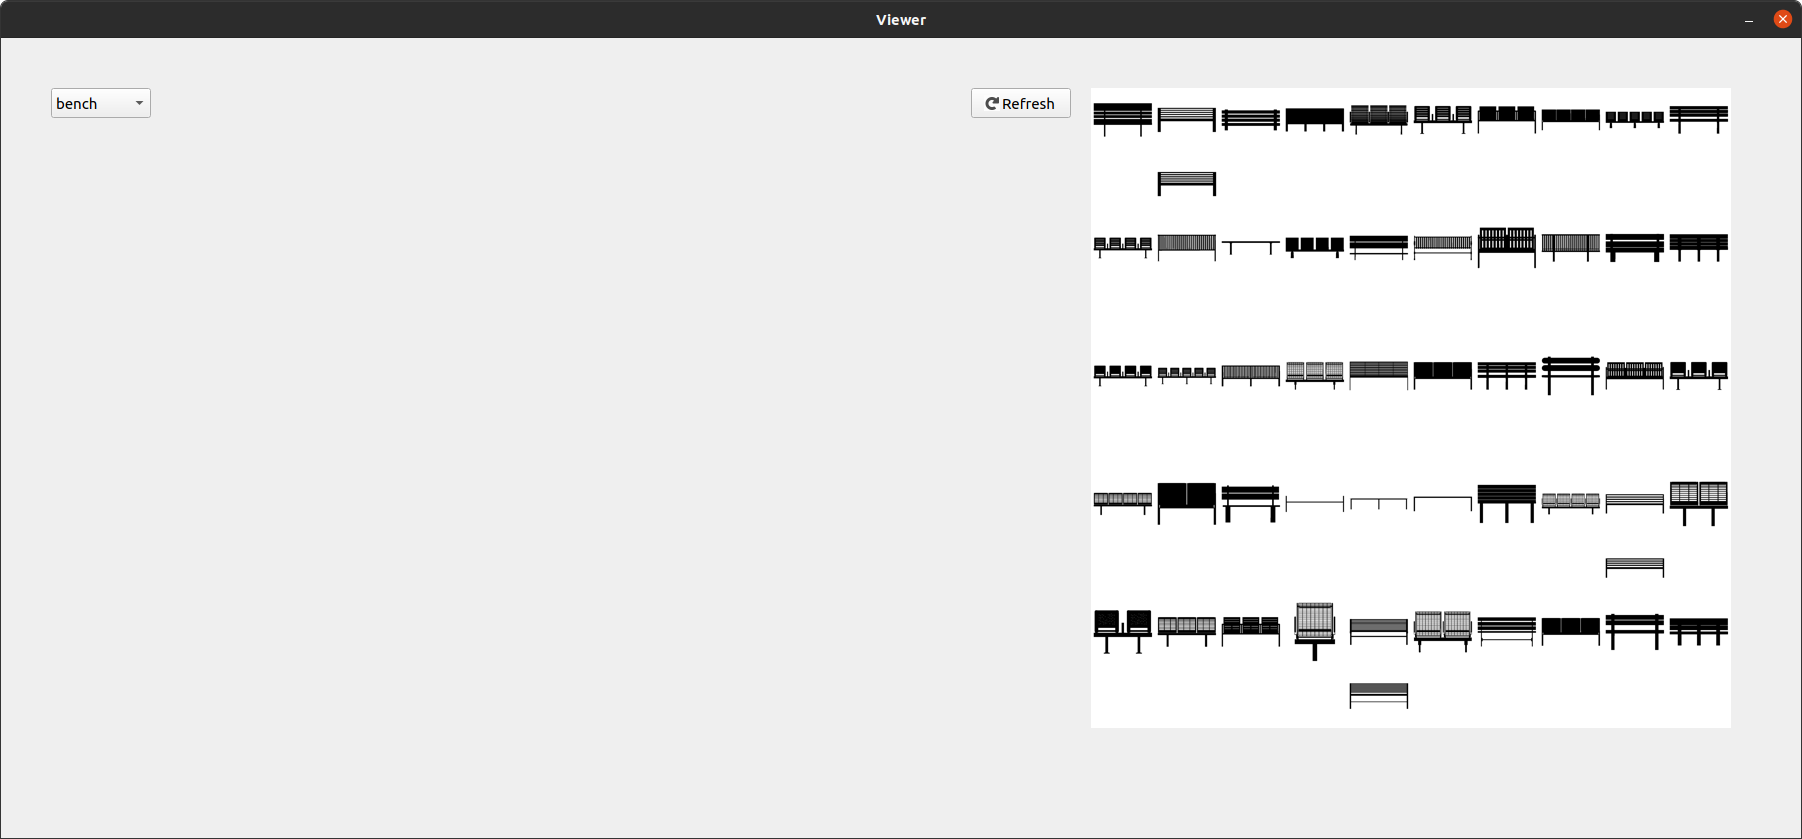
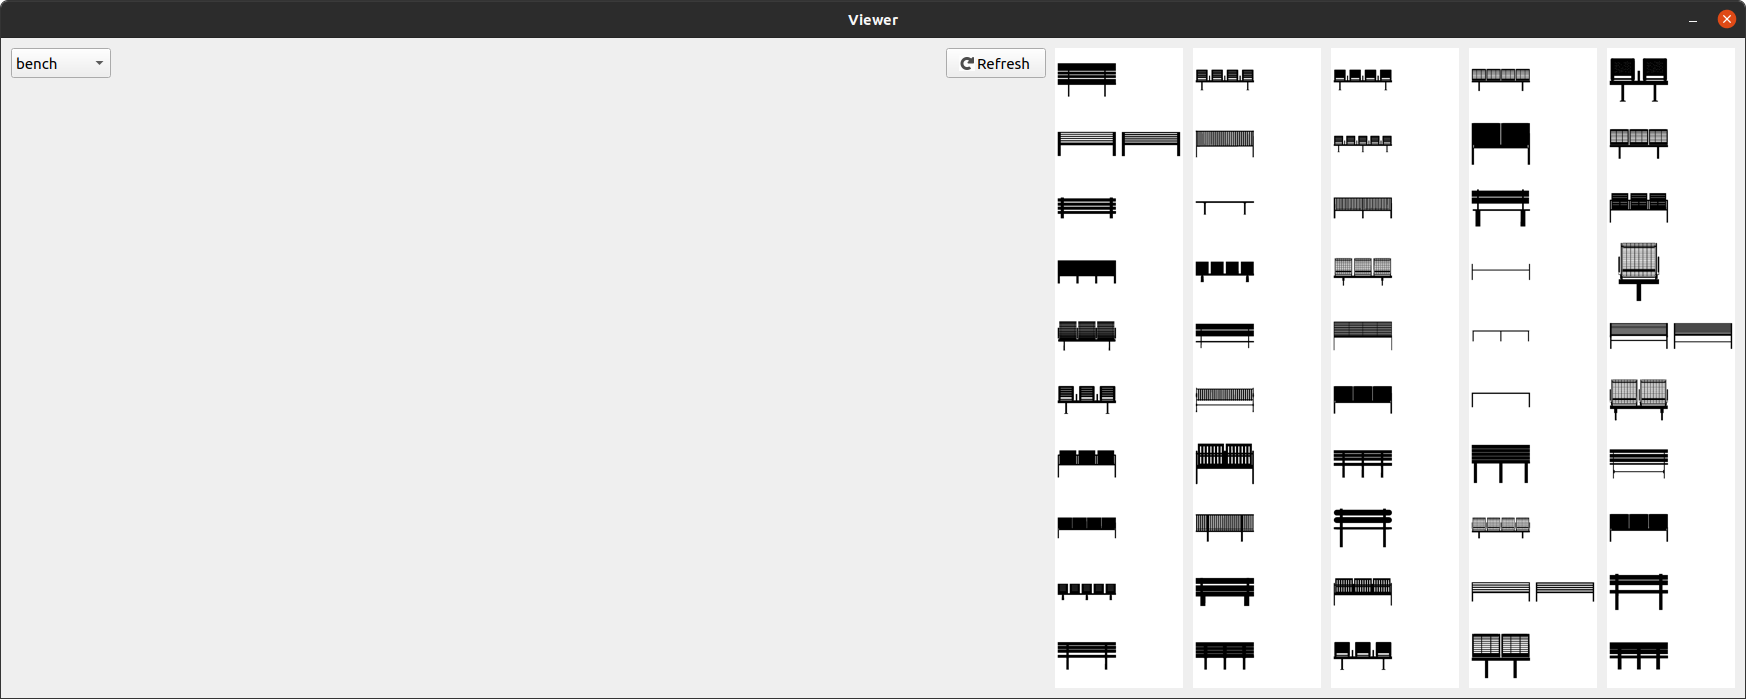
Interface and readme changed as Prof Takeo and I-Chao suggested

diff --git a/gui.py b/gui.py
@@ -20,7 +20,7 @@ class Gui(QMainWindow):
 
         self.controller = Controller()
 
-        self.setFixedSize(1800, 800)
+        self.setFixedSize(1744, 660)
         self.setWindowTitle("Viewer")
 
         self.shape_selector = QtWidgets.QComboBox(self)
@@ -34,13 +34,13 @@ class Gui(QMainWindow):
         self.true_legend = QtWidgets.QLabel(self)
         self.pred_legend = QtWidgets.QLabel(self)
 
-        self.shape_selector.move(50, 50)
-        self.refresh_button.move(970, 50)
-        self.summary_pane.move(1090, 50)
-        self.true_img_pane.move(50, 130)
-        self.pred_img_pane.move(570, 130)
-        self.true_legend.move(280, 650)
-        self.pred_legend.move(790, 650)
+        self.shape_selector.move(10, 10)
+        self.refresh_button.move(945, 10)
+        self.summary_pane.move(1054, 10)
+        self.true_img_pane.move(10, 70)
+        self.pred_img_pane.move(532, 70)
+        self.true_legend.move(240, 585)
+        self.pred_legend.move(760, 585)
 
         self.shape_selector.activated[str].connect(self.show_summary)
         self.refresh_button.clicked.connect(self.refresh)
@@ -48,9 +48,15 @@ class Gui(QMainWindow):
         self.show()
         self.show_summary()
 
-    def __pil_to_pixmap(self, img):
+    def __pil_to_rgb_pixmap(self, img):
         data = img.tobytes('raw', 'RGB')
         qim = QImage(data, img.size[0], img.size[1], QImage.Format_RGB888)
+        pixmap = QPixmap.fromImage(qim)
+        return pixmap
+
+    def __pil_to_rgba_pixmap(self, img):
+        data = img.tobytes('raw', 'RGBA')
+        qim = QImage(data, img.size[0], img.size[1], QImage.Format_ARGB32)
         pixmap = QPixmap.fromImage(qim)
         return pixmap
 
@@ -61,7 +67,7 @@ class Gui(QMainWindow):
     def show_summary(self):
         shape_name = self.shape_selector.currentText()
         summary_img = self.controller.get_summary(shape_name)
-        pixmap = self.__pil_to_pixmap(summary_img)
+        pixmap = self.__pil_to_rgba_pixmap(summary_img)
         self.summary_pane.setPixmap(pixmap)
         self.summary_pane.adjustSize()
         self.true_img_pane.clear()
@@ -71,10 +77,14 @@ class Gui(QMainWindow):
 
     def show_details(self, pos):
         shape_name = self.shape_selector.currentText()
-        index = str(pos.y()//128) + str(pos.x()//64)
+        i = pos.x()//138
+        j = pos.y()//64
+        if pos.x() > i*138 + 128:
+            return
+        index = str(i) + str(j)
         true_img, pred_img = self.controller.get_details(shape_name, int(index))
-        true_pixmap = self.__pil_to_pixmap(true_img)
-        pred_pixmap = self.__pil_to_pixmap(pred_img)
+        true_pixmap = self.__pil_to_rgb_pixmap(true_img)
+        pred_pixmap = self.__pil_to_rgb_pixmap(pred_img)
         self.true_img_pane.setPixmap(true_pixmap)
         self.pred_img_pane.setPixmap(pred_pixmap)
         self.true_img_pane.adjustSize()

diff --git a/parameter.py b/parameter.py
@@ -7,9 +7,9 @@ def quit_program(message: str):
 
 
 class Parameter:
-    def __init__(self, param_name: str, param_type: str, min_value=None, max_value=None, num_levels: int = None):
+    def __init__(self, param_name: str, param_type: str, min_value=None, max_value=None):
         if param_type == 's':
-            if min_value is None or max_value is None or num_levels is None:
+            if min_value is None or max_value is None:
                 quit_program('Scalar parameter requires additional specification')
         else:
             if param_type == 'b':
@@ -25,8 +25,7 @@ class Parameter:
             'param_name': param_name,
             'param_type': param_type,
             'min_value': min_value,
-            'max_value': max_value,
-            'num_levels': num_levels
+            'max_value': max_value
         }
 
 
@@ -34,10 +33,10 @@ class Shape:
     def __init__(self, shape_name: str):
         self.params = []
         if shape_name == 'bench':
-            self.params.append(Parameter('height', 's', 0.293, 0.43, 3))
-            self.params.append(Parameter('leg_height', 's', 0.14, 0.24, 3))
-            self.params.append(Parameter('leg_width', 's', 0.01, 0.05, 3))
-            self.params.append(Parameter('seat_height', 's', 0.01, 0.05, 3))
+            self.params.append(Parameter('height', 's', 0.293, 0.43))
+            self.params.append(Parameter('leg_height', 's', 0.14, 0.24))
+            self.params.append(Parameter('leg_width', 's', 0.01, 0.05))
+            self.params.append(Parameter('seat_height', 's', 0.01, 0.05))
             self.params.append(Parameter('num_hbars', 'i', 2, 14))
             self.params.append(Parameter('bottom_bar', 'b'))
         elif shape_name == 'chair':

diff --git a/rules.py b/rules.py
@@ -55,25 +55,25 @@ class Rules:
         num_hbars = int(param_vector[4])
         bottom_bar = int(param_vector[5])
         # draw the legs
-        xy = (0.043, 0.5 - height / 2, 0.043 + leg_width, 0.5 + height / 2)
+        xy = (0.045, 0.5 - height / 2, 0.045 + leg_width, 0.5 + height / 2)
         drawer.rectangle(xy)
-        xy = (0.953 - leg_width, 0.5 - height / 2, 0.953, 0.5 + height / 2)
+        xy = (0.955 - leg_width, 0.5 - height / 2, 0.955, 0.5 + height / 2)
         drawer.rectangle(xy)
         # draw the seat
         seat_location = 0.5 - height / 2 + (height - leg_height)
-        xy = (0.043, seat_location - seat_height / 2, 0.953, seat_location + seat_height / 2)
+        xy = (0.045, seat_location - seat_height / 2, 0.955, seat_location + seat_height / 2)
         drawer.rectangle(xy)
         # draw horizontal bars
         start = 0.5 - height / 2
         offset = (seat_location - seat_height / 2 - 0.5 + height / 2) / num_hbars
         for i in range(num_hbars):
-            xy = (0.043, start, 0.953, start + offset / 2)
+            xy = (0.045, start, 0.955, start + offset / 2)
             drawer.rectangle(xy)
             start = start + offset
         # draw the bottom bar
         if bottom_bar != 0:
             bbar_location = 0.5 - height / 2 + (height - leg_height) + leg_height / 2
-            xy = (0.043, bbar_location - 0.006, 0.953, bbar_location + 0.006)
+            xy = (0.045, bbar_location - 0.006, 0.955, bbar_location + 0.006)
             drawer.rectangle(xy)
         # and here
         return image

diff --git a/controller.py b/controller.py
@@ -21,14 +21,14 @@ class Controller:
         self.summary_images = {}
 
         for shape in ['bench', 'chair']:
-            summary_img = Image.new('RGB', (640, 640))
+            summary_img = Image.new('RGBA', (680, 640))
             for i in range(5):
                 for j in range(10):
                     index = str(i) + str(j)
                     true_image = Image.open(os.path.join('shapes', shape, index + '.png')).convert('RGB')
                     pred_image = self.generator.get_image(shape, int(index)).convert('RGB')
-                    summary_img.paste(true_image.resize((64, 64)), (j * 64, i * 128))
-                    summary_img.paste(pred_image.resize((64, 64)), (j * 64, 64 + i * 128))
+                    summary_img.paste(true_image.resize((64, 64)), (i * 138, j * 64))
+                    summary_img.paste(pred_image.resize((64, 64)), (64 + i * 138, j * 64))
                     self.true_images[shape].append(true_image)
                     self.pred_images[shape].append(pred_image)
             self.summary_images[shape] = summary_img

diff --git a/readme.md b/readme.md
@@ -2,6 +2,31 @@
 
 In this experiment, we ask you to write computer code to create a set of 2D shapes in a procedural manner. The goal is to create shapes that are as similar as possible to the shapes given in the study. The shapes are simply of black color on a white background. At the end of the study, we will ask you to participate in a short survey and answer a few follow-up questions.
 
+# Introduction to Procedural Modeling
+
+Procedural modeling of 2D shapes is the process of creating 2D shapes from a set of rules (aka the procedure) that are configurable with parameters. Take for example the figure below which is a silhouette of a bench.
+
+![](./assets/bench_example.png)
+
+We can define a simple procedure where we draw basic 2D shapes on an empty background and compose a shape that looks like a very simple bench with only the legs and the seat. See the figure below for an example.
+
+![](./assets/procresult_1.png)
+
+It can be seen that the procedure is defined as a set of rules for drawing basic shape for various parts of the bench. The procedure assumes the background to be a unit square. In this example, the procedure only uses rectangle as basic shape, however other basic shapes such as circles or polygons can easily be used. The method for drawing rectangle takes the coordinates of the upper left and the lower right corner of the rectangle. The procedure accepts a vector of parameters that govern the placement and size of the basic shapes created by the rules. In this example, the vector has 4 elements. One may find it useful to think of procedural modeling as creating functions with parameters where the function body is composed of rules and the parameters are the values for the rules to act on. We can add more complexity to both the procedure and the parameter vector in order to model more complex shapes. For example, see the figure below where the procedure is extended with more rules and the parameter vector has more elements in it.
+
+![](./assets/procresult_2.png)
+
+It is also worth mentioning that the elements of the parameter vector can be different types. The elements can be scalars or continuous values, e.g. ```height```, ```leg_height```, ```leg_width``` and ```seat_height``` in the figure above. They can also be integers, i.e. they only take on discrete values, such as ```num_hbars```. In addition, the elements can also be binary, i.e. they can be either true or false, such as ```bottom_bar```. 
+
+Once we have the semantics of the parameter vector (what each element represents and their type) and the rules in the procedure defined, we can assign values to the elements in the parameter vector and pass it to the procedure so that the shape created by the procedure matches with the intended shape. In other words, we can adjust the parameter vector so that the resulting bench has the desired look. The figure below shows benches with the example procedure and various parameter vectors.
+
+![](./assets/vectors.png)
+
+To summarize, we can define a procedural model by going through the following three steps.
+1. Defining the parameter vector, i.e. defining how many elements there are in the parameter vector, what the elements represent etc.
+2. Defining the procedure, i.e. creating rules for various parts of the shape in the procedure.
+3. Specifying the actual parameters for different shapes, i.e. passing an actual parameter vector to the procedure to create a specific shape.
+
 # Package requirements
 The project is implemented using Python 3.9 and depends on the following python packages.
 ```
@@ -15,15 +40,21 @@ In order to run the program, navigate to the root directory of the downloaded re
 
 # The user interface
 Running the program opens the user interface which you can interact with.
+
 ![](./assets/interface.png)
-There are two classes of shapes in this study; bench and chair. The bench class serves as an example you can use as reference while you create procedural model for the chair class. You can switch between the bench class and the chair class using the drop-down menu in the top left corner. On the right-hand side of the interface, there is a summary panel where you can see thumbnails of all the shapes from the selected class, arranged in 5 rows. There are a total of 50 shapes in each class. Notice the empty space under each row where the shapes created by the procedural model is shown. As example, three shapes from the bench class are already defined procedurally which are shown in this area.  
+
+There are two classes of shapes in this study; bench and chair. The bench class serves as an example you can use as reference while you create procedural model for the chair class. You can switch between the bench class and the chair class using the drop-down menu in the top left corner. On the right-hand side of the interface, there is a summary panel where you can see thumbnails of all the shapes from the selected class, arranged in 5 columns. There are a total of 50 shapes in each class. As example, three shapes from the bench class are already defined procedurally which are shown on the right side of their corresponding example shapes.  
 You can click on any shape from the summary pane and see the enlarged images on the left-hand side of the interface. This helps you do a side by side comparison between the original shape and the procedural shape and inspect how closely they resemble each other. You can edit the code while the interface is running and see the results of your work by clicking the refresh button.
+
 ![](./assets/interface_with_detail.png)
 
 # Creating the procedural model
-Creating a procedural model is a three-step process.
-1. **Define the parameter vector:** Go to ```parameter.py``` and define the construction of the parameter vector. The ```params``` list in the ```Shape``` class defines the structure of the parameter vector. Each list-element represents an element in the parameter vector and is an object of the ```Parameter``` class. Up to five arguments can be passed to the constructor when adding a parameter. The first argument is the name assigned to the parameter. The second argument defines the type of the parameter, and is any of ```‘s’```, ```‘i’``` or ```‘b’``` (short for scalar, integer and binary, respectively). The third and the fourth argument is the minimum and maximum allowable value of the parameter. The last argument is not relevant to this experiment, and you can use any positive value. As an example, a basic construction of the parameter vector for the bench class is already done. You can use it as reference when defining the construction of your own parameter vector for the chair class.
-2. **Define the rules:** Go to ```rules.py``` and implement the rules in the ```__make_chair``` function. You will draw basic shapes on an empty canvas and combine them to draw different types of chairs. You will use the values in the parameter vector to control the attributes of the basic shapes such as location and size. As an example you can use as reference, a basic construction of the bench class is already provided. You will create your own rules in a similar way for the chair class. Here is a list of methods from the drawer class that can be used to draw basic shapes.  
+As explained previously, creating a procedural model is a three-step process.
+1. **Define the parameter vector:** Go to ```parameter.py``` and define the construction of the parameter vector. The ```params``` list in the ```Shape``` class defines the structure of the parameter vector. Each list-element represents an element in the parameter vector and is an object of the ```Parameter``` class. Up to four arguments can be passed to the constructor when adding a parameter. The first argument is the name assigned to the parameter. The second argument defines the type of the parameter, and is any of ```‘s’```, ```‘i’``` or ```‘b’``` (short for scalar, integer and binary, respectively). The third and the fourth argument is the minimum and maximum allowable value of the parameter. For example, the following line of code will add a scalar element named ```test_element``` to the parameter vector with the minimum value of 0.0 and maximum value of 0.5.
+```self.params.append(Parameter('test_element', 's', 0.0, 0.5))```
+
+   As an example, a basic construction of the parameter vector for the bench class is already done. You can use it as reference when defining the construction of your own parameter vector for the chair class.
+2. **Define the procedure:** Go to ```rules.py``` and implement the rules in the ```__make_chair``` function. You will draw basic shapes on an empty canvas and combine them to draw different types of chairs. Each basic shape can represent various parts of the chair, such as legs, back and seat. You will use the values in the parameter vector to control the attributes of the basic shapes such as location and size. As an example you can use as reference, a basic construction of the bench class is already provided. You will create your own rules in a similar way for the chair class. Here is a list of methods from the drawer class that can be used to draw basic shapes.  
    - ```arc(self, xy, start, end)```: Draws an arc (a portion of a circle outline) between the ```start``` and ```end``` angles, inside the given bounding box ```xy``` (a 4-tuple). The bounding box is defined with respect to a unit square where top left is (0, 0), top right is (1, 0), bottom left is (0, 1) and bottom right is (1, 1).
    - ```chord(self, xy, start, end)```: Same as arc(), but connects the end points with a straight line.
    - ```ellipse(self, xy)```: Draws an ellipse inside the given bounding box.
@@ -33,7 +64,10 @@ Creating a procedural model is a three-step process.
    - ```regular_polygon(self, bounding_circle, n_sides, rotation=0)```: Draws a regular polygon inscribed in ```bounding_circle```, with ```n_sides```, and rotation of ```rotation``` degrees. The bounding circle can also be defined with respect to the unit square described before.
    - ```rectangle(self, xy)```: Draws a rectangle.
    - ```rounded_rectangle(self, xy, radius=0)```: Draws a rounded rectangle.
-3. **Specify the parameter vectors:** Go to ```shapegenerator.py``` and add the corresponding parameter vectors for the shapes you want to draw to the ```ShapeGenerator``` class. This can be done in the ```__init__``` function. The class has a dictionary of lists where you can add the parameter vectors. For each shape from the chair class you want to draw, you will assign a parameter vector to ```params[‘chair’][index]``` where index identifies which shape you want to draw and can be any value between 0 and 49 inclusive. As reference, three parameter vectors are specified for the bench class. Be sure to adhere to the structure of the parameter vector (number of parameters and their order) you defined in ```parameter.py``` and make sure that the values in the vector are within their corresponding ranges.
+3. **Specify the actual parameter vectors:** Finally, in order to create a specific chair shape, you will need to specify the parameter values for the corresponding shape. For instance, you may wish to assign use the parameter vector ```[0.1, 5, 0]``` for the first chair indexed at 0. This can be done by going to ```shapegenerator.py``` and adding the corresponding parameter vector to the ```__init__``` function of the ```ShapeGenerator``` class. The line of code that you will use to specify the parameter vector is the following.
+```self.params['chair'][0] = [0.1, 5, 0]```
+   
+   As reference, three parameter vectors are specified for the bench class. Be sure to adhere to the structure of the parameter vector (number of parameters and their order) you defined in ```parameter.py``` and make sure that the values in the vector are within their corresponding ranges.
 
 # Debrief
 Once you are finished with your work, please visit <https://carletonu.az1.qualtrics.com/jfe/form/SV_dmMJN4mfpFP7w8u> where you will find a short survey that will help us record your experience and document the findings from this study.
